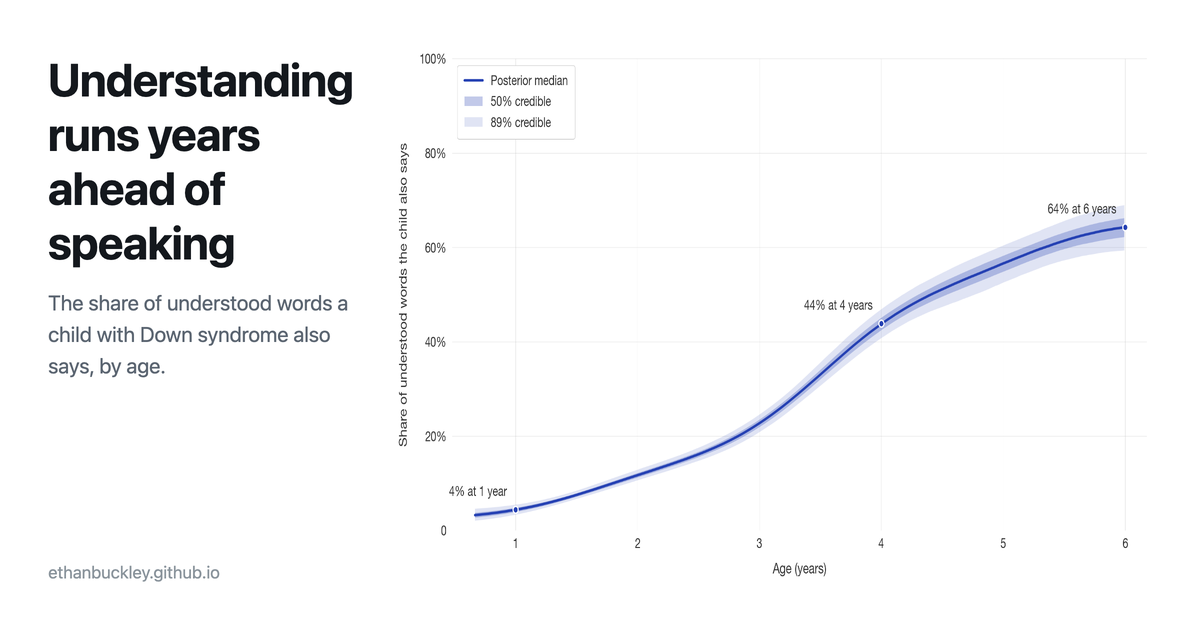
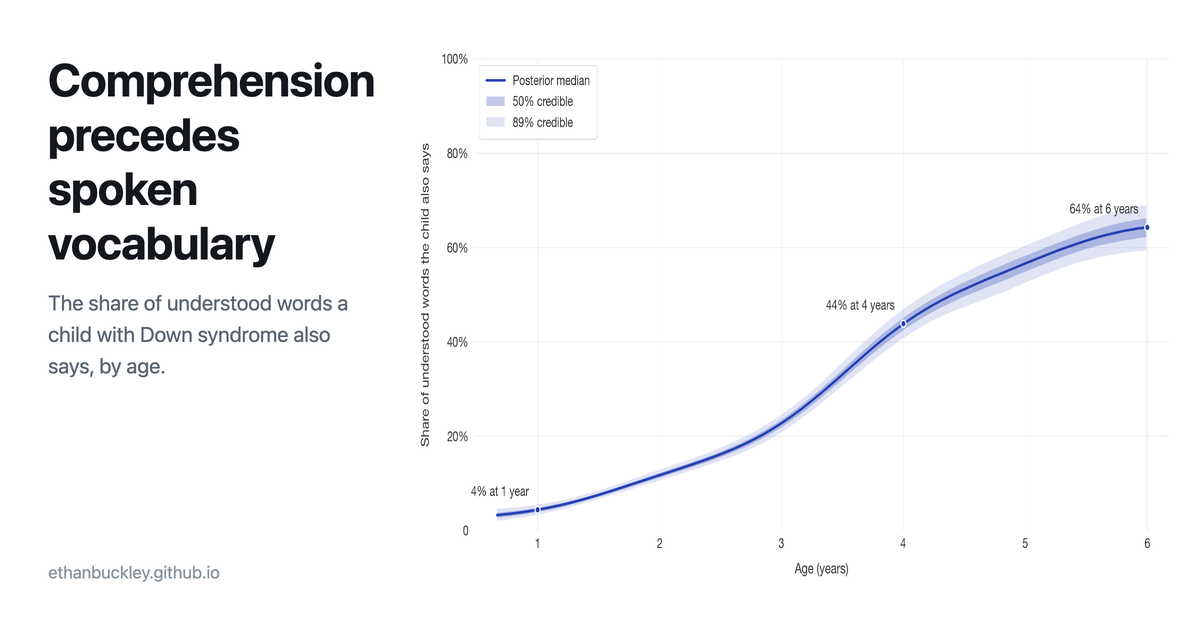
fix(site): make the research figures legible
Show the study figures at full width, up to 1000px, in place of the
half-width grid columns, where their labels came out at 5 to 7px.
Raise the sublabel, legend and subtitle sizes in the causal diagram,
drop its "X, not Y" subtitle, and re-render through figures/render.sh.
The forest-plot subtitle now matches the page: 57 children randomised,
54 followed. The share card uses the finding heading from the page in
place of a slogan. The two inline schematics use sans labels at a
readable size. Bump the query strings on the changed assets.

diff --git a/index.html b/index.html
@@ -23,7 +23,7 @@
 <meta name="theme-color" content="#ffffff" media="(prefers-color-scheme: light)">
 <meta name="theme-color" content="#0f1114" media="(prefers-color-scheme: dark)">
 <link rel="stylesheet" href="assets/site.css?v=20260918-2">
-<link rel="stylesheet" href="assets/portfolio.css?v=20260918-2">
+<link rel="stylesheet" href="assets/portfolio.css?v=20260928">
 <script src="assets/theme.js?v=20260915"></script>
 <script type="application/ld+json">
 {
@@ -123,7 +123,7 @@
         <p class="study-eyebrow">Study 1 · Vocabulary growth</p>
         <h3>Vocabulary development in children with Down&nbsp;syndrome</h3>
         <p class="study-desc">A pooled Bayesian study of the words children understand, say and sign. It draws on parent-report checklists from fourteen datasets in six countries, put onto a common scale.</p>
-        <p class="study-meta">VG14 test-tier fit, 4 September 2026&nbsp;&nbsp;·&nbsp; 14 datasets&nbsp;&nbsp;·&nbsp; 1,424 assessments&nbsp;&nbsp;·&nbsp; reported to age 6&nbsp;&nbsp;·&nbsp; typically developing comparisons from the July 2026 fits&nbsp;&nbsp;·&nbsp; <b>Preliminary findings</b></p>
+        <p class="study-meta">VG14 test-tier fit, 4 September 2026&nbsp;&nbsp;·&nbsp; 14 datasets&nbsp;&nbsp;·&nbsp; 1,424 assessments&nbsp;&nbsp;·&nbsp; reported to age 6&nbsp;&nbsp;·&nbsp; <span class="nowrap">typically developing comparisons from the July 2026 fits</span>&nbsp;&nbsp;·&nbsp; <b>Preliminary findings</b></p>
 
         <div class="study-overview">
         <figure class="fig fig-primary">
@@ -186,13 +186,13 @@
 
         <div class="study-overview">
         <figure class="fig fig-primary">
-          <a class="figlink" href="assets/reading-intervention-effects.png?v=20260905" target="_blank" rel="noopener">
+          <a class="figlink" href="assets/reading-intervention-effects.png?v=20260928" target="_blank" rel="noopener">
             <picture>
-              <source type="image/webp" srcset="assets/reading-intervention-effects-1600.webp?v=20260905">
-              <img src="assets/reading-intervention-effects-1600.png?v=20260905" width="1600" height="1000" loading="lazy" decoding="async" alt="Forest plot: randomised intervention effects with 89 per cent credible intervals. Letter-sound knowledge, blending and word reading sit clear of zero; receptive and expressive vocabulary sit on zero.">
+              <source type="image/webp" srcset="assets/reading-intervention-effects-1600.webp?v=20260928">
+              <img src="assets/reading-intervention-effects-1600.png?v=20260928" width="1600" height="1000" loading="lazy" decoding="async" alt="Forest plot: randomised intervention effects with 89 per cent credible intervals. Letter-sound knowledge, blending and word reading sit clear of zero; receptive and expressive vocabulary sit on zero.">
             </picture>
           </a>
-          <figcaption>Randomised effects per skill, with 89% credible intervals. Intervals above zero indicate evidence of a positive effect within the model. <a href="assets/reading-intervention-effects.png?v=20260905" target="_blank" rel="noopener">Open full size</a></figcaption>
+          <figcaption>Randomised effects per skill, with 89% credible intervals. Intervals above zero indicate evidence of a positive effect within the model. <a href="assets/reading-intervention-effects.png?v=20260928" target="_blank" rel="noopener">Open full size</a></figcaption>
         </figure>
           <div class="study-aside">
             <div class="contrib">
@@ -224,13 +224,13 @@
             </div>
             </div>
           <figure class="fig fig-side">
-            <a class="figlink" href="assets/reading-causal-design.png?v=20260905" target="_blank" rel="noopener">
+            <a class="figlink" href="assets/reading-causal-design.png?v=20260928" target="_blank" rel="noopener">
               <picture>
-                <source type="image/webp" srcset="assets/reading-causal-design-1600.webp?v=20260905">
-                <img src="assets/reading-causal-design-1600.png?v=20260905" width="1600" height="1000" loading="lazy" decoding="async" alt="Diagram: the study’s causal graph. A randomised intervention node feeds letter-sound, phonological and taught-vocabulary skills through to word reading, while a latent general-ability node confounds every non-randomised path.">
+                <source type="image/webp" srcset="assets/reading-causal-design-1600.webp?v=20260928">
+                <img src="assets/reading-causal-design-1600.png?v=20260928" width="1600" height="1000" loading="lazy" decoding="async" alt="Diagram: the study’s causal graph. A randomised intervention node feeds letter-sound, phonological and taught-vocabulary skills through to word reading, while a latent general-ability node confounds every non-randomised path.">
               </picture>
             </a>
-            <figcaption>Causal diagram used to specify the analysis. <a href="assets/reading-causal-design.png?v=20260905" target="_blank" rel="noopener">Open full size</a></figcaption>
+            <figcaption>Causal diagram used to specify the analysis. <a href="assets/reading-causal-design.png?v=20260928" target="_blank" rel="noopener">Open full size</a></figcaption>
           </figure>
           </div>
         </details>
@@ -329,10 +329,10 @@
               <g style="fill:var(--ink-soft)" opacity="0.35">
                 <circle cx="150" cy="140" r="4"/><circle cx="178" cy="124" r="4"/><circle cx="140" cy="162" r="4"/><circle cx="196" cy="150" r="4"/><circle cx="166" cy="110" r="4"/>
               </g>
-              <text x="296" y="45" text-anchor="end" font-size="8" style="fill:var(--accent);font-family:ui-monospace,'SF Mono',Menlo,monospace;letter-spacing:.1em;font-weight:600;">LONG</text>
-              <text x="50" y="250" font-size="8" style="fill:var(--accent-2);font-family:ui-monospace,'SF Mono',Menlo,monospace;letter-spacing:.1em;font-weight:600;">SHORT</text>
-              <text x="173" y="286" text-anchor="middle" font-size="8" style="fill:var(--ink-soft);font-family:ui-monospace,'SF Mono',Menlo,monospace;letter-spacing:.12em;">CONFIDENCE →</text>
-              <text x="18" y="143" text-anchor="middle" font-size="8" transform="rotate(-90 18 143)" style="fill:var(--ink-soft);font-family:ui-monospace,'SF Mono',Menlo,monospace;letter-spacing:.12em;">SENTIMENT</text>
+              <text x="296" y="45" text-anchor="end" font-size="11" style="fill:var(--accent);font-family:var(--sans);font-weight:600;">Long</text>
+              <text x="50" y="250" font-size="11" style="fill:var(--accent-2);font-family:var(--sans);font-weight:600;">Short</text>
+              <text x="173" y="286" text-anchor="middle" font-size="11" style="fill:var(--ink-soft);font-family:var(--sans);">Model confidence</text>
+              <text x="18" y="143" text-anchor="middle" font-size="11" transform="rotate(-90 18 143)" style="fill:var(--ink-soft);font-family:var(--sans);">News sentiment</text>
             </svg>
             <figcaption>Schematic: how the screener separates candidates, model confidence vs news sentiment.</figcaption>
           </figure>
@@ -417,11 +417,11 @@
             <path d="M430,200 C466,196 486,76 510,70 C534,76 554,196 590,200" fill="none" style="stroke:var(--accent)" stroke-width="2"/>
             <line x1="510" y1="70" x2="510" y2="200" style="stroke:var(--ink-soft)" stroke-width="1.3" stroke-dasharray="3 3"/>
             <line x1="420" y1="200" x2="600" y2="200" style="stroke:var(--fig-grid)" stroke-width="1"/>
-            <text x="40" y="22" font-size="10" style="fill:var(--ink-soft);font-family:ui-monospace,'SF Mono',Menlo,monospace;letter-spacing:.12em;">MCMC TRACE · 3 CHAINS</text>
-            <text x="420" y="22" font-size="10" style="fill:var(--ink-soft);font-family:ui-monospace,'SF Mono',Menlo,monospace;letter-spacing:.12em;">POSTERIOR</text>
+            <text x="40" y="22" font-size="12" style="fill:var(--ink-soft);font-family:var(--sans);">Three MCMC chains</text>
+            <text x="420" y="22" font-size="12" style="fill:var(--ink-soft);font-family:var(--sans);">Posterior</text>
             <text x="600" y="22" text-anchor="end" font-size="11" style="fill:var(--accent);font-family:ui-monospace,'SF Mono',Menlo,monospace;letter-spacing:.08em;font-weight:600;">R&#x0302; &#8776; 1.00</text>
-            <text x="510" y="210" text-anchor="middle" font-size="9" style="fill:var(--ink-soft);font-family:ui-monospace,'SF Mono',Menlo,monospace;letter-spacing:.1em;">89% CrI</text>
-            <text x="40" y="216" font-size="9" style="fill:var(--ink-soft);font-family:ui-monospace,'SF Mono',Menlo,monospace;letter-spacing:.1em;">iteration &#8594;</text>
+            <text x="510" y="212" text-anchor="middle" font-size="11" style="fill:var(--ink-soft);font-family:var(--sans);">89% credible interval</text>
+            <text x="40" y="216" font-size="11" style="fill:var(--ink-soft);font-family:var(--sans);">Iteration</text>
           </svg>
           <figcaption><span class="tag">Schematic</span>A convergence check from a Bayesian fit. The three chains cover the same band (<span class="stat">R&#x0302;</span>&nbsp;&#8776;&nbsp;1.00), so the draws can be pooled into the posterior on the right.</figcaption>
         </figure>

diff --git a/figures/causal-design.html b/figures/causal-design.html
@@ -17,21 +17,21 @@
   #fig{width:1600px;height:1000px;overflow:hidden;background:var(--paper);color:var(--ink);
        font-family:var(--sans);display:flex;flex-direction:column;padding:54px 64px 54px}
   h1{font-size:30px;font-weight:600;line-height:1.2;letter-spacing:-.005em;color:var(--ink);max-width:1360px}
-  .sub{font-size:19px;line-height:1.45;color:var(--ink-soft);margin-top:10px;max-width:1360px}
+  .sub{font-size:22px;line-height:1.45;color:var(--ink-soft);margin-top:10px;max-width:1360px}
   main{flex:1;min-height:0;display:flex;align-items:center;justify-content:center;padding:14px 0 8px}
   .panel img{display:block;width:1472px;height:780px}
   main{flex-direction:column;align-items:stretch;justify-content:center;gap:18px}
   svg.dag{display:block;font-family:var(--sans);margin:0 auto}
   svg.dag .nt{font-size:22px;font-weight:600;fill:var(--ink)}
-  svg.dag .ns{font-size:16px;fill:var(--ink-soft)}
+  svg.dag .ns{font-size:21px;fill:var(--ink-soft)}
   svg.dag .nt-inv{font-size:24px;font-weight:600;fill:#fff}
-  svg.dag .ns-inv{font-size:14px;fill:rgba(255,255,255,.85)}
+  svg.dag .ns-inv{font-size:20px;fill:rgba(255,255,255,.85)}
   svg.dag .nt-out{font-size:26px;font-weight:600}
-  svg.dag .ns-out{font-size:14px}
+  svg.dag .ns-out{font-size:20px}
   svg.dag .ga-t{font-size:23px;font-weight:600;fill:var(--ink)}
-  svg.dag .ga-s{font-size:16px;font-style:italic;fill:var(--ink-soft)}
-  svg.dag .dropped{font-size:16.5px;font-style:italic;fill:var(--ink-soft)}
-  .legend{display:flex;flex-wrap:wrap;justify-content:center;gap:10px 34px;font-size:16.5px;color:var(--ink)}
+  svg.dag .ga-s{font-size:20px;font-style:italic;fill:var(--ink-soft)}
+  svg.dag .dropped{font-size:21px;font-style:italic;fill:var(--ink-soft)}
+  .legend{display:flex;flex-wrap:wrap;justify-content:center;gap:12px 34px;font-size:22px;color:var(--ink)}
   .legend span{display:inline-flex;align-items:center;gap:10px}
 </style>
 </head>
@@ -39,7 +39,7 @@
 <div id="fig">
   <header>
     <h1>Causal structure assumed in the reading analysis</h1>
-    <p class="sub">Randomisation makes the intervention independent of general ability, so its effects on the skills it targets are read as causal. Every skill-to-skill link stays confounded by ability and is reported as association, not cause.</p>
+    <p class="sub">Randomisation makes the intervention independent of general ability, so its effects on the skills it targets are read as causal. Every <span style="white-space:nowrap">skill-to-skill</span> link stays confounded by ability, so it is reported as an association.</p>
   </header>
   <main>
     <svg class="dag" viewBox="0 0 1472 470" width="1472" height="520" aria-hidden="true">

diff --git a/assets/portfolio.css b/assets/portfolio.css
@@ -58,7 +58,7 @@ a { text-underline-offset: 4px; text-decoration-thickness: 1px; }
 .study-desc { max-width: 52em; margin: 0 0 18px; color: var(--ink-soft); }
 .study-meta { color: var(--ink-soft); margin: 0 0 24px; font-size: 12px; line-height: 1.8; }
 .study-meta b { display: inline-block; font-size: 12px; background: var(--surface); padding: 1px 7px; border-radius: 3px; }
-.study-overview { display: grid; grid-template-columns: minmax(0, 1.25fr) minmax(0, 1fr); gap: 32px; align-items: start; }
+.study-overview { display: grid; grid-template-columns: minmax(0, 1fr); gap: 24px; align-items: start; max-width: 1000px; }
 .contrib { border-left: 2px solid var(--accent); padding-left: 18px; margin-bottom: 20px; }
 .contrib .label { display: block; font-size: 13px; color: var(--ink); font-weight: 600; margin-bottom: 8px; }
 .contrib p { font-size: 15px; margin: 0; }
@@ -70,7 +70,7 @@ a { text-underline-offset: 4px; text-decoration-thickness: 1px; }
 summary { cursor: pointer; color: var(--accent); font-weight: 500; font-size: 14px; padding: 14px 4px; }
 summary:hover { color: var(--accent-dark); }
 summary::marker { font-size: 12px; }
-.study-detail { display: grid; grid-template-columns: minmax(0, 1fr) minmax(0, 1fr); gap: 32px; padding-block: 12px 28px; }
+.study-detail { display: grid; grid-template-columns: minmax(0, 1fr); gap: 32px; padding-block: 12px 28px; max-width: 1000px; }
 .study-detail.single { grid-template-columns: minmax(0, 1fr); max-width: 52em; }
 .findings { display: grid; gap: 20px; }
 .finding { display: grid; grid-template-columns: 8px minmax(0, 1fr); gap: 3px 12px; }
@@ -128,6 +128,7 @@ summary::marker { font-size: 12px; }
 .site-foot a { display: inline-block; padding-block: 6px; }
 
 @media (min-width: 761px) {
+  .study-meta .nowrap { white-space: nowrap; }
   #projects .proj:last-child { grid-column: 1 / -1; display: grid; grid-template-columns: repeat(2, minmax(0, 1fr)); column-gap: 36px; }
   #projects .proj:last-child > * { grid-column: 1; }
   #projects .proj:last-child .proj-fig { grid-column: 2; grid-row: 1 / span 6; align-self: center; }
@@ -139,7 +140,6 @@ summary::marker { font-size: 12px; }
 @media (max-width: 999px) {
   .hero .wrap { gap: 28px; }
   .site-nav { gap: 4px 16px; }
-  .study-overview { gap: 24px; grid-template-columns: repeat(2, minmax(0, 1fr)); }
 }
 @media (max-width: 760px) {
   html { scroll-padding-top: 20px; }

diff --git a/figures/intervention-effects.html b/figures/intervention-effects.html
@@ -26,7 +26,7 @@
 <div id="fig">
   <header>
     <h1>Effect of the reading intervention on each skill</h1>
-    <p class="sub">Intention-to-treat estimates on the log-odds scale with 89% equal-tailed intervals; 54 children randomised to the teaching or a waiting list. Right of zero favours the teaching. Blue intervals exclude zero; grey intervals span it.</p>
+    <p class="sub">Intention-to-treat estimates on the log-odds scale with 89% equal-tailed intervals, for the 54 of the trial’s 57 randomised children that the re-analysis follows. Right of zero favours the teaching. Blue intervals exclude zero; grey intervals span it.</p>
   </header>
   <main>
     <figure class="panel"><img src="panels/intervention-effects-panel.png" width="1472" height="780" alt=""></figure>

diff --git a/figures/og-card-production-ratio.html b/figures/og-card-production-ratio.html
@@ -2,7 +2,7 @@
 <html lang="en-GB">
 <head>
 <meta charset="utf-8">
-<title>Understanding runs years ahead of speaking — og card</title>
+<title>Comprehension precedes spoken vocabulary: Open Graph card</title>
 <!--
   Source for assets/og-card-production-ratio.png, the og:image for index.html
   (and its twitter:image), so also the LinkedIn Featured thumbnail for the site.
@@ -32,7 +32,7 @@
 <body>
 <div id="card">
   <div class="txt">
-    <h1>Understanding runs years ahead of speaking</h1>
+    <h1>Comprehension precedes spoken vocabulary</h1>
     <p class="sub">The share of understood words a child with Down syndrome also says, by age.</p>
     <p class="url">ethanbuckley.github.io</p>
   </div>
